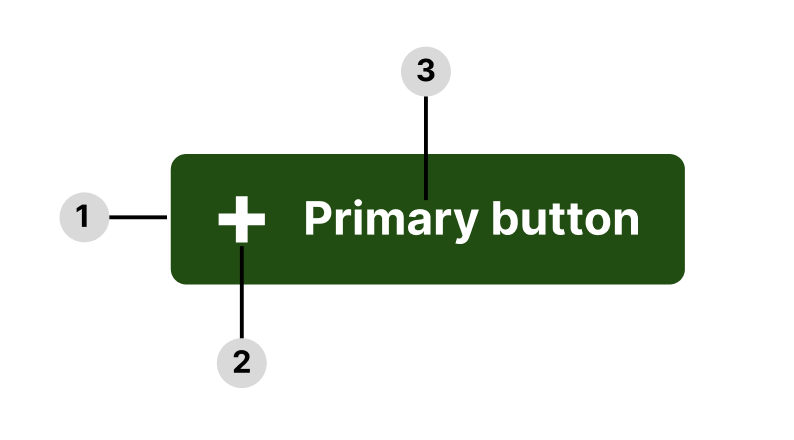
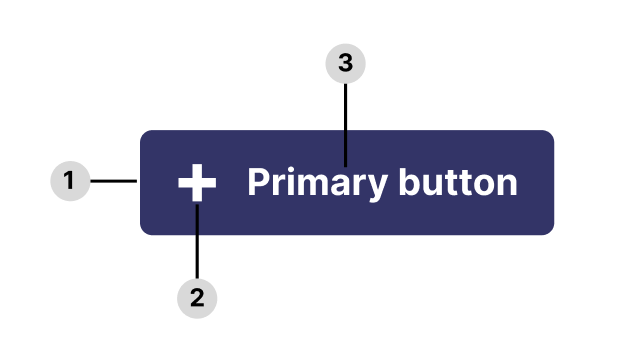
kleuren buttons veranderd

Changed region(s): [[0.0625, 0.0912, 0.875, 0.8508], [0.0938, 0.547, 0.125, 0.5773]]

diff --git a/index.html b/index.html
@@ -498,63 +498,12 @@ input, label, textarea {
 
     <section id="buttons">
       <h2>Buttons</h2>
-      <h3>Header</h3>
-      <h4>Wel doen</h4>
-      <p>Vertel hoe dingen toegepast moeten worden.</p>
 
-      <h3>Gebruik</h3>
-
-      <table class="table1">
-        <tr>
-          <td>
-            <img class="gebruik1" src="./assets/btn-gebruik.png" alt="Gebruik1">
-            <p> Gebruik een knop om acties mogelijk te maken die belangrijk zijn voor een gebruiker.</p>
-          </td>
-          <td>
-            <img class="gebruik1" src="./assets/btn-gebruik2.png" alt="Gebruik2">
-            <p>
-              Wanneer het combineren van twee knoppen nauw worden gebruikt, moeten knoppen worden benadrukt.
-            </p>
-          </td>
-        </tr>
-      </table>
-
-      <h3>Opties</h3>
-
-      <p>
+      <h3>Wel doen</h3>
+      <p class="p-button">
         Een knop is een klikbaar element dat wordt gebruikt om een actie uit te voeren.
         Het bevat een tekstlabel en er kan een ondersteunend pictogram worden weergegeven.
-      </p>
-
-      <article class="btn-kader">
-        <button class="btn1"> Primary button</button>
-        <button class="btn2"> Secondary button</button>
-        <button class="btn3"> Tertiary button</button>
-      </article>
-
-      <table class="table2">
-        <tr>
-          <th>Primary</th>
-          <th>Secondary</th>
-          <th>Tertiary</th>
-        </tr>
-
-        <tr>
-          <td>
-            De button wordt <strong>eenmaal</strong> per weergave gebruikt. Het wordt gebruikt wanneer een actie
-            duidelijk belangrijker
-            is dan de ander.
-          </td>
-          <td>
-            De secundaire knop is de standaardknop voor de meeste gebruikssituaties. De geschetste styling legt minder
-            nadruk op deze knoppen.
-          </td>
-          <td>
-            De tertiaire knop wordt meestal gebruikt voor diverse acties: de actie is belangrijk, maar is misschien niet
-            wat de gebruiker op dat moment wil doen.
-          </td>
-        </tr>
-      </table>
+      </p>  
 
       <h3>Anatomie</h3>
 
@@ -571,6 +520,55 @@ input, label, textarea {
           <li>3. Label</li>
         </ul>
       </article>
+
+      <table class="table1">
+        <tr>
+          <td class="td-button">
+            <img class="gebruik1" src="./assets/btn-gebruik.png" alt="Gebruik1">
+            <p> Gebruik een knop om acties mogelijk te maken die belangrijk zijn voor een gebruiker.</p>
+          </td>
+          <td class="td-button">
+            <img class="gebruik1" src="./assets/btn-gebruik2.png" alt="Gebruik2">
+            <p>
+              Wanneer twee knoppen nauw worden gebruikt, moeten knoppen worden benadrukt.
+            </p>
+          </td>
+        </tr>
+      </table>
+
+      <h3>Opties</h3>
+
+      <article class="btn-kader">
+        <button class="btn1"> Primary button</button>
+        <button class="btn2"> Secondary button</button>
+        <button class="btn3"> Tertiary button</button>
+      </article>
+
+      <table class="table2">
+        <tr>
+          <th class="th-button">Primary</th>
+          <th class="th-button">Secondary</th>
+          <th class="th-button">Tertiary</th>
+        </tr>
+
+        <tr>
+          <td class="td-button">
+            De button wordt <strong>eenmaal</strong> per weergave gebruikt. Het wordt gebruikt wanneer een actie
+            duidelijk belangrijker
+            is dan de ander.
+          </td>
+          <td class="td-button">
+            De secundaire knop is de standaardknop voor de meeste gebruikssituaties. De geschetste styling legt minder
+            nadruk op deze knoppen.
+          </td>
+          <td class="td-button">
+            De tertiaire knop wordt meestal gebruikt voor diverse acties: de actie is belangrijk, maar is misschien niet
+            wat de gebruiker op dat moment wil doen.
+          </td>
+        </tr>
+      </table>
+
+      
     </section>
 
     <section id="footer">

diff --git a/style.css b/style.css
@@ -329,22 +329,33 @@ textarea:focus {
 }
 
 .btn1 {
-  background-color: #224D12;
+  background-color: #333467;
   color: white;
-} */
+} 
 
 .btn2 {
   background-color: white;
-  border-style: solid #224D12;
-  color: #224D12;
+  border-style: solid #333467;
+  color: #333467;
 }
 
 .btn3 {
-  background-color: rgba(34, 77, 18, 0.11);
-  border-style: solid #224D12;
-  color: #224D12;
+  background-color: #33346727;
+  border-style: solid #333467;
+  color: #333467;
 }
 
+button:hover {
+  background-color:#F26F21;
+}
+
+.btn2:hover{
+  color: white;
+}
+
+.btn3:hover{
+  color: white;
+}
 .btn-plus {
   width: 16em;
   margin-left: 3em;
@@ -369,13 +380,23 @@ textarea:focus {
   margin: 2rem;
   padding: 0;
   background-color: white;
-  color: black;
 }
 
+.td-button {
+  border-color: #ffffff;
+}
+
+.th-button{
+  border-color: #ffffff;
+}
 td {
   padding: 0;
   width: 12em;
   padding: 1em;
+}
+
+.p-button{
+  margin-bottom: 1em;
 }
 /* BUTTONS END */
 
